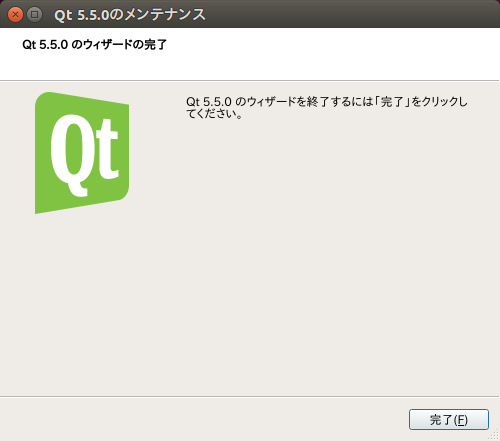
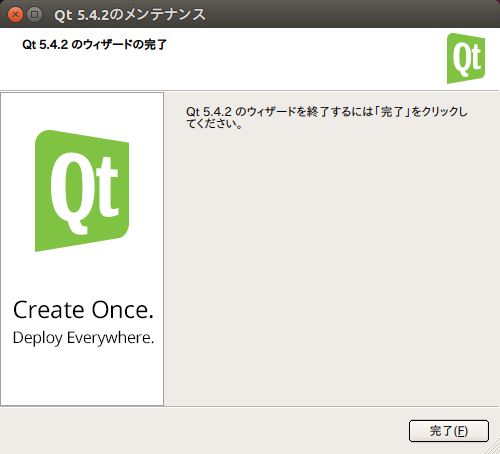
changed Qt version from 5.5.0 to 5.4.2

diff --git a/doc/manual/source/client_setting_ubuntu.rst b/doc/manual/source/client_setting_ubuntu.rst
@@ -23,22 +23,24 @@
 
 (2).Qt5のダウンロード
 ^^^^^^^^^^^^^^^^^^^^^
- [64bit版 Qt5.5.0]
+ [64bit版 Qt5.4.2]
 
- <http://download.qt-project.org/official_releases/qt/5.5/5.5.0/qt-opensource-linux-x64-5.5.0.run>
+ <http://download.qt.io/archive/qt/5.4/5.4.2/qt-opensource-linux-x64-5.4.2.run>
 
- [32bit版 Qt5.5.0]
+ [32bit版 Qt5.4.2]
 
- <http://download.qt-project.org/official_releases/qt/5.5/5.5.0/qt-opensource-linux-x86-5.5.0.run>
+ <http://download.qt.io/archive/qt/5.4/5.4.2/qt-opensource-linux-x86-5.4.2.run>
 
 2. Qt5のインストール
 --------------------------
 
 (1) インストーラ起動
 ^^^^^^^^^^^^^^^^^^^^
-.. image:: images/ubuntu_installer00.png
+..
+ image:: images/ubuntu_installer00.png
 
-.. image:: images/ubuntu_installer01.png
+..
+ image:: images/ubuntu_installer01.png
 
 .. image:: images/ubuntu_installer1.png
 
@@ -78,7 +80,8 @@
 
 root権限でQt5.x.x/MaintenanceToolを実行してください。
 
-.. image:: images/ubuntu_uninstaller0.png
+..
+ image:: images/ubuntu_uninstaller0.png
 
 .. image:: images/ubuntu_uninstaller1.png
 

diff --git a/doc/manual/source/change_logs.rst b/doc/manual/source/change_logs.rst
@@ -3,6 +3,22 @@
 変更履歴
 =======================
 
+Ver.1.1.1
+---------
+
+* [不具合修正]
+
+ 1. 他のサウンド再生アプリケーションと同時に利用できない不具合への対応
+    (Ubuntu x86版のみ)
+
+* [その他変更]
+
+ 1. サウンド再生の安定性の確保のためQtの環境を5.5.0からQt5.4.2へバージョンダウン
+
+   (*) Ver.1.1.0の[その他変更]の改善は再度無効となる
+
+ 2. ドキュメント修正
+
 Ver.1.1.0
 ---------
 

diff --git a/doc/manual/source/restriction_and_bug_report.rst b/doc/manual/source/restriction_and_bug_report.rst
@@ -20,6 +20,8 @@
 
      C:\Users\ユーザ名\AppData\Local\VirtualStore\Program Files (x86)\QtBrynhildr\qtbrynhildr.log
 
+ 2. キーボードニーモニックが正しく表示されない場合があります。(Qt5.4の既知の不具合)
+
 3. Ubuntu版のみの制限
 ---------------------
 
